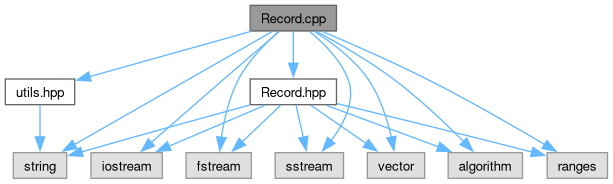
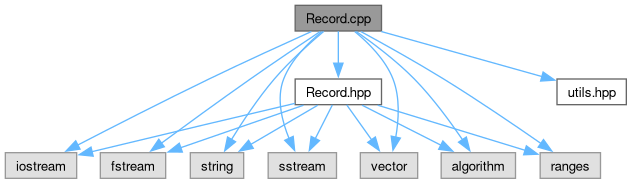
deploy: 14380d415c9c5c7abaf45a0c2f95ecaf4b24fa57

diff --git a/Record_8hpp_source.html b/Record_8hpp_source.html
@@ -29,7 +29,7 @@
  <tbody>
  <tr id="projectrow">
   <td id="projectalign">
-   <div id="projectname">CSV-Parser<span id="projectnumber">&#160;v0.0.4</span>
+   <div id="projectname">CSV-Parser<span id="projectnumber">&#160;v0.1.0</span>
    </div>
    <div id="projectbrief">Implementacja CSV-Parser</div>
   </td>
@@ -114,34 +114,35 @@ $(function(){initNavTree('Record_8hpp_source.html',''); initResizable(true); });
 <div class="line"><a id="l00010" name="l00010"></a><span class="lineno">   10</span><span class="preprocessor">#include &lt;ranges&gt;</span></div>
 <div class="line"><a id="l00011" name="l00011"></a><span class="lineno">   11</span> </div>
 <div class="line"><a id="l00012" name="l00012"></a><span class="lineno"><a class="line" href="Record_8hpp.html#aeb997e4ba1f284c007b9b402df0e0b38">   12</a></span><span class="preprocessor">#define FIELDS_IN_CSV 6</span></div>
-<div class="line"><a id="l00013" name="l00013"></a><span class="lineno">   13</span> </div>
-<div class="foldopen" id="foldopen00014" data-start="{" data-end="};">
-<div class="line"><a id="l00014" name="l00014"></a><span class="lineno"><a class="line" href="classRecord.html">   14</a></span><span class="keyword">class </span><a class="code hl_function" href="classRecord.html#ae8ee53ffec6ff4dac9911517d47e86a5">Record</a> {</div>
-<div class="line"><a id="l00015" name="l00015"></a><span class="lineno"><a class="line" href="classRecord.html#a0ab199529200222fbe5d06411e36084c">   15</a></span>    std::string <a class="code hl_variable" href="classRecord.html#a0ab199529200222fbe5d06411e36084c">Time</a>;</div>
-<div class="line"><a id="l00016" name="l00016"></a><span class="lineno"><a class="line" href="classRecord.html#aa6580edcfaf84ceefc03468870a324bc">   16</a></span>    <span class="keywordtype">float</span> <a class="code hl_variable" href="classRecord.html#aa6580edcfaf84ceefc03468870a324bc">AutoConsumption</a>;</div>
-<div class="line"><a id="l00017" name="l00017"></a><span class="lineno"><a class="line" href="classRecord.html#aea68c2e23e48f8e7316b9f3e932787be">   17</a></span>    <span class="keywordtype">float</span> <a class="code hl_variable" href="classRecord.html#aea68c2e23e48f8e7316b9f3e932787be">Export</a>;</div>
-<div class="line"><a id="l00018" name="l00018"></a><span class="lineno"><a class="line" href="classRecord.html#a6daba87ddf40bcc86c2852ab1aa0c6bc">   18</a></span>    <span class="keywordtype">float</span> <a class="code hl_variable" href="classRecord.html#a6daba87ddf40bcc86c2852ab1aa0c6bc">Import</a>;</div>
-<div class="line"><a id="l00019" name="l00019"></a><span class="lineno"><a class="line" href="classRecord.html#a62a67e2449c79bce4340276a1ac989f3">   19</a></span>    <span class="keywordtype">float</span> <a class="code hl_variable" href="classRecord.html#a62a67e2449c79bce4340276a1ac989f3">Consumption</a>;</div>
-<div class="line"><a id="l00020" name="l00020"></a><span class="lineno"><a class="line" href="classRecord.html#a3945cdb36df3ca909459894451db477b">   20</a></span>    <span class="keywordtype">float</span> <a class="code hl_variable" href="classRecord.html#a3945cdb36df3ca909459894451db477b">Production</a>;</div>
-<div class="line"><a id="l00021" name="l00021"></a><span class="lineno">   21</span> </div>
-<div class="line"><a id="l00022" name="l00022"></a><span class="lineno">   22</span>    <span class="keyword">public</span>:</div>
-<div class="line"><a id="l00023" name="l00023"></a><span class="lineno">   23</span>    <a class="code hl_function" href="classRecord.html#ae8ee53ffec6ff4dac9911517d47e86a5">Record</a>();</div>
-<div class="line"><a id="l00024" name="l00024"></a><span class="lineno">   24</span>    <span class="keyword">friend</span> std::ostream&amp; <a class="code hl_friend" href="classRecord.html#a80c4cb4b2179c66896a66052b26891f4">operator&lt;&lt;</a>(std::ostream&amp; os, <span class="keyword">const</span> <a class="code hl_function" href="classRecord.html#ae8ee53ffec6ff4dac9911517d47e86a5">Record</a>&amp; <a class="code hl_function" href="classRecord.html#ae8ee53ffec6ff4dac9911517d47e86a5">Record</a>);</div>
-<div class="line"><a id="l00025" name="l00025"></a><span class="lineno">   25</span>    <span class="keyword">friend</span> std::istream&amp; <a class="code hl_friend" href="classRecord.html#a092e129e09b8d3a4cfa1793a2fb6d486">operator&gt;&gt;</a>(std::istream&amp; is, <a class="code hl_function" href="classRecord.html#ae8ee53ffec6ff4dac9911517d47e86a5">Record</a>&amp; <a class="code hl_function" href="classRecord.html#ae8ee53ffec6ff4dac9911517d47e86a5">Record</a>);</div>
-<div class="line"><a id="l00026" name="l00026"></a><span class="lineno">   26</span>};</div>
+<div class="line"><a id="l00013" name="l00013"></a><span class="lineno">   13</span></div>
+<div class="line"><a id="l00030" name="l00030"></a><span class="lineno">   30</span> </div>
+<div class="foldopen" id="foldopen00031" data-start="{" data-end="};">
+<div class="line"><a id="l00031" name="l00031"></a><span class="lineno"><a class="line" href="classRecord.html">   31</a></span><span class="keyword">class </span><a class="code hl_function" href="classRecord.html#ae8ee53ffec6ff4dac9911517d47e86a5">Record</a> {</div>
+<div class="line"><a id="l00032" name="l00032"></a><span class="lineno"><a class="line" href="classRecord.html#a0ab199529200222fbe5d06411e36084c">   32</a></span>    std::string <a class="code hl_variable" href="classRecord.html#a0ab199529200222fbe5d06411e36084c">Time</a>;</div>
+<div class="line"><a id="l00033" name="l00033"></a><span class="lineno"><a class="line" href="classRecord.html#aa6580edcfaf84ceefc03468870a324bc">   33</a></span>    <span class="keywordtype">float</span> <a class="code hl_variable" href="classRecord.html#aa6580edcfaf84ceefc03468870a324bc">AutoConsumption</a>;</div>
+<div class="line"><a id="l00034" name="l00034"></a><span class="lineno"><a class="line" href="classRecord.html#aea68c2e23e48f8e7316b9f3e932787be">   34</a></span>    <span class="keywordtype">float</span> <a class="code hl_variable" href="classRecord.html#aea68c2e23e48f8e7316b9f3e932787be">Export</a>;</div>
+<div class="line"><a id="l00035" name="l00035"></a><span class="lineno"><a class="line" href="classRecord.html#a6daba87ddf40bcc86c2852ab1aa0c6bc">   35</a></span>    <span class="keywordtype">float</span> <a class="code hl_variable" href="classRecord.html#a6daba87ddf40bcc86c2852ab1aa0c6bc">Import</a>;</div>
+<div class="line"><a id="l00036" name="l00036"></a><span class="lineno"><a class="line" href="classRecord.html#a62a67e2449c79bce4340276a1ac989f3">   36</a></span>    <span class="keywordtype">float</span> <a class="code hl_variable" href="classRecord.html#a62a67e2449c79bce4340276a1ac989f3">Consumption</a>;</div>
+<div class="line"><a id="l00037" name="l00037"></a><span class="lineno"><a class="line" href="classRecord.html#a3945cdb36df3ca909459894451db477b">   37</a></span>    <span class="keywordtype">float</span> <a class="code hl_variable" href="classRecord.html#a3945cdb36df3ca909459894451db477b">Production</a>;</div>
+<div class="line"><a id="l00038" name="l00038"></a><span class="lineno">   38</span> </div>
+<div class="line"><a id="l00039" name="l00039"></a><span class="lineno">   39</span>    <span class="keyword">public</span>:</div>
+<div class="line"><a id="l00040" name="l00040"></a><span class="lineno">   40</span>    <a class="code hl_function" href="classRecord.html#ae8ee53ffec6ff4dac9911517d47e86a5">Record</a>();</div>
+<div class="line"><a id="l00041" name="l00041"></a><span class="lineno">   41</span>    <span class="keyword">friend</span> std::ostream&amp; <a class="code hl_friend" href="classRecord.html#a80c4cb4b2179c66896a66052b26891f4">operator&lt;&lt;</a>(std::ostream&amp; os, <span class="keyword">const</span> <a class="code hl_function" href="classRecord.html#ae8ee53ffec6ff4dac9911517d47e86a5">Record</a>&amp; <a class="code hl_function" href="classRecord.html#ae8ee53ffec6ff4dac9911517d47e86a5">Record</a>);</div>
+<div class="line"><a id="l00042" name="l00042"></a><span class="lineno">   42</span>    <span class="keyword">friend</span> std::istream&amp; <a class="code hl_friend" href="classRecord.html#a092e129e09b8d3a4cfa1793a2fb6d486">operator&gt;&gt;</a>(std::istream&amp; is, <a class="code hl_function" href="classRecord.html#ae8ee53ffec6ff4dac9911517d47e86a5">Record</a>&amp; <a class="code hl_function" href="classRecord.html#ae8ee53ffec6ff4dac9911517d47e86a5">Record</a>);</div>
+<div class="line"><a id="l00043" name="l00043"></a><span class="lineno">   43</span>};</div>
 </div>
-<div class="line"><a id="l00027" name="l00027"></a><span class="lineno">   27</span> </div>
-<div class="line"><a id="l00028" name="l00028"></a><span class="lineno">   28</span> </div>
-<div class="line"><a id="l00029" name="l00029"></a><span class="lineno">   29</span><span class="preprocessor">#endif </span><span class="comment">/* FFCD09C6_ACDA_4273_B86D_DEDC69507119 */</span><span class="preprocessor"></span></div>
+<div class="line"><a id="l00044" name="l00044"></a><span class="lineno">   44</span> </div>
+<div class="line"><a id="l00045" name="l00045"></a><span class="lineno">   45</span> </div>
+<div class="line"><a id="l00046" name="l00046"></a><span class="lineno">   46</span><span class="preprocessor">#endif </span><span class="comment">/* FFCD09C6_ACDA_4273_B86D_DEDC69507119 */</span><span class="preprocessor"></span></div>
 <div class="ttc" id="aclassRecord_html_a092e129e09b8d3a4cfa1793a2fb6d486"><div class="ttname"><a href="classRecord.html#a092e129e09b8d3a4cfa1793a2fb6d486">Record::operator&gt;&gt;</a></div><div class="ttdeci">friend std::istream &amp; operator&gt;&gt;(std::istream &amp;is, Record &amp;Record)</div><div class="ttdef"><b>Definicja</b> Record.cpp:21</div></div>
-<div class="ttc" id="aclassRecord_html_a0ab199529200222fbe5d06411e36084c"><div class="ttname"><a href="classRecord.html#a0ab199529200222fbe5d06411e36084c">Record::Time</a></div><div class="ttdeci">std::string Time</div><div class="ttdef"><b>Definicja</b> Record.hpp:15</div></div>
-<div class="ttc" id="aclassRecord_html_a3945cdb36df3ca909459894451db477b"><div class="ttname"><a href="classRecord.html#a3945cdb36df3ca909459894451db477b">Record::Production</a></div><div class="ttdeci">float Production</div><div class="ttdef"><b>Definicja</b> Record.hpp:20</div></div>
-<div class="ttc" id="aclassRecord_html_a62a67e2449c79bce4340276a1ac989f3"><div class="ttname"><a href="classRecord.html#a62a67e2449c79bce4340276a1ac989f3">Record::Consumption</a></div><div class="ttdeci">float Consumption</div><div class="ttdef"><b>Definicja</b> Record.hpp:19</div></div>
-<div class="ttc" id="aclassRecord_html_a6daba87ddf40bcc86c2852ab1aa0c6bc"><div class="ttname"><a href="classRecord.html#a6daba87ddf40bcc86c2852ab1aa0c6bc">Record::Import</a></div><div class="ttdeci">float Import</div><div class="ttdef"><b>Definicja</b> Record.hpp:18</div></div>
+<div class="ttc" id="aclassRecord_html_a0ab199529200222fbe5d06411e36084c"><div class="ttname"><a href="classRecord.html#a0ab199529200222fbe5d06411e36084c">Record::Time</a></div><div class="ttdeci">std::string Time</div><div class="ttdef"><b>Definicja</b> Record.hpp:32</div></div>
+<div class="ttc" id="aclassRecord_html_a3945cdb36df3ca909459894451db477b"><div class="ttname"><a href="classRecord.html#a3945cdb36df3ca909459894451db477b">Record::Production</a></div><div class="ttdeci">float Production</div><div class="ttdef"><b>Definicja</b> Record.hpp:37</div></div>
+<div class="ttc" id="aclassRecord_html_a62a67e2449c79bce4340276a1ac989f3"><div class="ttname"><a href="classRecord.html#a62a67e2449c79bce4340276a1ac989f3">Record::Consumption</a></div><div class="ttdeci">float Consumption</div><div class="ttdef"><b>Definicja</b> Record.hpp:36</div></div>
+<div class="ttc" id="aclassRecord_html_a6daba87ddf40bcc86c2852ab1aa0c6bc"><div class="ttname"><a href="classRecord.html#a6daba87ddf40bcc86c2852ab1aa0c6bc">Record::Import</a></div><div class="ttdeci">float Import</div><div class="ttdef"><b>Definicja</b> Record.hpp:35</div></div>
 <div class="ttc" id="aclassRecord_html_a80c4cb4b2179c66896a66052b26891f4"><div class="ttname"><a href="classRecord.html#a80c4cb4b2179c66896a66052b26891f4">Record::operator&lt;&lt;</a></div><div class="ttdeci">friend std::ostream &amp; operator&lt;&lt;(std::ostream &amp;os, const Record &amp;Record)</div><div class="ttdef"><b>Definicja</b> Record.cpp:76</div></div>
-<div class="ttc" id="aclassRecord_html_aa6580edcfaf84ceefc03468870a324bc"><div class="ttname"><a href="classRecord.html#aa6580edcfaf84ceefc03468870a324bc">Record::AutoConsumption</a></div><div class="ttdeci">float AutoConsumption</div><div class="ttdef"><b>Definicja</b> Record.hpp:16</div></div>
+<div class="ttc" id="aclassRecord_html_aa6580edcfaf84ceefc03468870a324bc"><div class="ttname"><a href="classRecord.html#aa6580edcfaf84ceefc03468870a324bc">Record::AutoConsumption</a></div><div class="ttdeci">float AutoConsumption</div><div class="ttdef"><b>Definicja</b> Record.hpp:33</div></div>
 <div class="ttc" id="aclassRecord_html_ae8ee53ffec6ff4dac9911517d47e86a5"><div class="ttname"><a href="classRecord.html#ae8ee53ffec6ff4dac9911517d47e86a5">Record::Record</a></div><div class="ttdeci">Record()</div><div class="ttdef"><b>Definicja</b> Record.cpp:11</div></div>
-<div class="ttc" id="aclassRecord_html_aea68c2e23e48f8e7316b9f3e932787be"><div class="ttname"><a href="classRecord.html#aea68c2e23e48f8e7316b9f3e932787be">Record::Export</a></div><div class="ttdeci">float Export</div><div class="ttdef"><b>Definicja</b> Record.hpp:17</div></div>
+<div class="ttc" id="aclassRecord_html_aea68c2e23e48f8e7316b9f3e932787be"><div class="ttname"><a href="classRecord.html#aea68c2e23e48f8e7316b9f3e932787be">Record::Export</a></div><div class="ttdeci">float Export</div><div class="ttdef"><b>Definicja</b> Record.hpp:34</div></div>
 </div><!-- fragment --></div><!-- contents -->
 </div><!-- doc-content -->
 <!-- start footer part -->

diff --git a/Record_8cpp.html b/Record_8cpp.html
@@ -29,7 +29,7 @@
  <tbody>
  <tr id="projectrow">
   <td id="projectalign">
-   <div id="projectname">CSV-Parser<span id="projectnumber">&#160;v0.0.4</span>
+   <div id="projectname">CSV-Parser<span id="projectnumber">&#160;v0.1.0</span>
    </div>
    <div id="projectbrief">Implementacja CSV-Parser</div>
   </td>
@@ -118,33 +118,32 @@ Wykres zależności załączania dla Record.cpp:</div>
 <div class="dyncontent">
 <div class="center"><img src="Record_8cpp__incl.png" border="0" usemap="#aRecord_8cpp" alt=""/></div>
 <map name="aRecord_8cpp" id="aRecord_8cpp">
-<area shape="rect" title=" " alt="" coords="250,5,336,31"/>
-<area shape="rect" title=" " alt="" coords="91,153,162,178"/>
-<area shape="poly" title=" " alt="" coords="281,33,226,81,153,145,149,141,222,77,278,29"/>
-<area shape="rect" title=" " alt="" coords="186,153,251,178"/>
-<area shape="poly" title=" " alt="" coords="280,34,260,54,241,80,230,109,224,138,219,137,225,108,236,78,256,51,277,30"/>
-<area shape="rect" title=" " alt="" coords="13,153,67,178"/>
-<area shape="poly" title=" " alt="" coords="273,34,76,147,73,142,271,29"/>
-<area shape="rect" title=" " alt="" coords="275,153,344,178"/>
-<area shape="poly" title=" " alt="" coords="312,30,333,50,350,78,353,95,350,112,333,142,329,139,345,111,348,95,346,80,329,54,308,33"/>
-<area shape="rect" title=" " alt="" coords="367,153,425,178"/>
-<area shape="poly" title=" " alt="" coords="316,29,344,50,370,77,385,107,394,136,389,138,380,109,366,81,341,54,313,34"/>
-<area shape="rect" title=" " alt="" coords="448,153,522,178"/>
-<area shape="poly" title=" " alt="" coords="318,29,355,50,395,77,433,109,466,140,462,144,430,113,392,81,352,55,316,34"/>
-<area shape="rect" title=" " alt="" coords="547,153,608,178"/>
-<area shape="poly" title=" " alt="" coords="323,29,428,77,546,142,543,147,425,81,321,34"/>
-<area shape="rect" href="utils_8hpp.html" title=" " alt="" coords="5,79,75,105"/>
-<area shape="poly" title=" " alt="" coords="251,34,90,79,89,74,250,29"/>
-<area shape="rect" href="Record_8hpp.html" title=" " alt="" coords="250,79,336,105"/>
-<area shape="poly" title=" " alt="" coords="296,31,296,63,291,63,291,31"/>
-<area shape="poly" title=" " alt="" coords="43,105,43,137,37,137,37,105"/>
-<area shape="poly" title=" " alt="" coords="266,108,170,149,168,144,264,103"/>
-<area shape="poly" title=" " alt="" coords="283,107,244,144,240,140,279,103"/>
-<area shape="poly" title=" " alt="" coords="250,108,82,154,81,149,249,102"/>
-<area shape="poly" title=" " alt="" coords="299,104,306,137,301,138,293,105"/>
-<area shape="poly" title=" " alt="" coords="312,103,368,141,365,146,309,107"/>
-<area shape="poly" title=" " alt="" coords="327,103,439,144,438,149,325,108"/>
-<area shape="poly" title=" " alt="" coords="338,101,533,149,531,155,336,106"/>
+<area shape="rect" title=" " alt="" coords="295,5,382,31"/>
+<area shape="rect" title=" " alt="" coords="5,153,77,178"/>
+<area shape="poly" title=" " alt="" coords="313,34,210,81,79,147,76,143,208,77,310,29"/>
+<area shape="rect" title=" " alt="" coords="100,153,166,178"/>
+<area shape="poly" title=" " alt="" coords="322,34,252,81,163,146,160,141,249,77,319,29"/>
+<area shape="rect" title=" " alt="" coords="190,153,244,178"/>
+<area shape="poly" title=" " alt="" coords="326,33,276,81,234,141,229,138,272,77,322,29"/>
+<area shape="rect" title=" " alt="" coords="268,153,336,178"/>
+<area shape="poly" title=" " alt="" coords="324,33,303,54,286,80,283,94,284,109,292,138,287,140,278,110,278,94,281,78,299,50,320,30"/>
+<area shape="rect" title=" " alt="" coords="360,153,418,178"/>
+<area shape="poly" title=" " alt="" coords="357,30,378,50,395,78,401,109,398,138,393,137,396,109,391,80,374,54,353,33"/>
+<area shape="rect" title=" " alt="" coords="441,153,516,178"/>
+<area shape="poly" title=" " alt="" coords="358,29,386,51,416,77,443,108,465,138,460,141,439,111,412,81,383,55,355,34"/>
+<area shape="rect" title=" " alt="" coords="540,153,600,178"/>
+<area shape="poly" title=" " alt="" coords="362,29,445,77,542,141,540,146,442,81,359,34"/>
+<area shape="rect" href="utils_8hpp.html" title=" " alt="" coords="557,79,626,105"/>
+<area shape="poly" title=" " alt="" coords="382,29,543,74,542,79,381,34"/>
+<area shape="rect" href="Record_8hpp.html" title=" " alt="" coords="295,79,382,105"/>
+<area shape="poly" title=" " alt="" coords="341,31,341,63,336,63,336,31"/>
+<area shape="poly" title=" " alt="" coords="295,106,92,154,91,149,294,101"/>
+<area shape="poly" title=" " alt="" coords="304,108,181,150,180,145,303,103"/>
+<area shape="poly" title=" " alt="" coords="319,108,252,147,249,142,316,103"/>
+<area shape="poly" title=" " alt="" coords="335,106,318,140,313,138,330,104"/>
+<area shape="poly" title=" " alt="" coords="349,103,374,138,370,141,345,106"/>
+<area shape="poly" title=" " alt="" coords="363,103,442,143,440,148,361,108"/>
+<area shape="poly" title=" " alt="" coords="378,103,526,148,525,153,377,108"/>
 </map>
 </div>
 </div><table class="memberdecls">

diff --git a/utils_8hpp.html b/utils_8hpp.html
@@ -29,7 +29,7 @@
  <tbody>
  <tr id="projectrow">
   <td id="projectalign">
-   <div id="projectname">CSV-Parser<span id="projectnumber">&#160;v0.0.4</span>
+   <div id="projectname">CSV-Parser<span id="projectnumber">&#160;v0.1.0</span>
    </div>
    <div id="projectbrief">Implementacja CSV-Parser</div>
   </td>
@@ -99,23 +99,10 @@ $(function(){initNavTree('utils_8hpp.html',''); initResizable(true); });
 </div>
 
 <div class="header">
-  <div class="summary">
-<a href="#func-members">Funkcje</a>  </div>
   <div class="headertitle"><div class="title">Dokumentacja pliku utils.hpp</div></div>
 </div><!--header-->
 <div class="contents">
-<div class="textblock"><code>#include &lt;string&gt;</code><br />
-</div><div class="textblock"><div class="dynheader">
-Wykres zależności załączania dla utils.hpp:</div>
-<div class="dyncontent">
-<div class="center"><img src="utils_8hpp__incl.png" border="0" usemap="#autils_8hpp" alt=""/></div>
-<map name="autils_8hpp" id="autils_8hpp">
-<area shape="rect" title=" " alt="" coords="5,5,75,31"/>
-<area shape="rect" title=" " alt="" coords="13,79,67,105"/>
-<area shape="poly" title=" " alt="" coords="43,31,43,63,37,63,37,31"/>
-</map>
-</div>
-</div><div class="textblock"><div class="dynheader">
+<div class="textblock"><div class="dynheader">
 Ten wykres pokazuje, które pliki bezpośrednio lub pośrednio załączają ten plik:</div>
 <div class="dyncontent">
 <div class="center"><img src="utils_8hpp__dep__incl.png" border="0" usemap="#autils_8hppdep" alt=""/></div>
@@ -129,30 +116,6 @@ Ten wykres pokazuje, które pliki bezpośrednio lub pośrednio załączają ten 
 </div>
 </div>
 <p><a href="utils_8hpp_source.html">Idź do kodu źródłowego tego pliku.</a></p>
-<table class="memberdecls">
-<tr class="heading"><td colspan="2"><h2 class="groupheader"><a id="func-members" name="func-members"></a>
-Funkcje</h2></td></tr>
-<tr class="memitem:a76e5e79ce66375ea90e5aad0a84e7c96" id="r_a76e5e79ce66375ea90e5aad0a84e7c96"><td class="memItemLeft" align="right" valign="top">std::string&#160;</td><td class="memItemRight" valign="bottom"><a class="el" href="#a76e5e79ce66375ea90e5aad0a84e7c96">trimAllQuotationMarks</a> (const std::string &amp;str)</td></tr>
-<tr class="separator:a76e5e79ce66375ea90e5aad0a84e7c96"><td class="memSeparator" colspan="2">&#160;</td></tr>
-</table>
-<h2 class="groupheader">Dokumentacja funkcji</h2>
-<a id="a76e5e79ce66375ea90e5aad0a84e7c96" name="a76e5e79ce66375ea90e5aad0a84e7c96"></a>
-<h2 class="memtitle"><span class="permalink"><a href="#a76e5e79ce66375ea90e5aad0a84e7c96">&#9670;&#160;</a></span>trimAllQuotationMarks()</h2>
-
-<div class="memitem">
-<div class="memproto">
-      <table class="memname">
-        <tr>
-          <td class="memname">std::string trimAllQuotationMarks </td>
-          <td>(</td>
-          <td class="paramtype">const std::string &amp;</td>          <td class="paramname"><span class="paramname"><em>str</em></span></td><td>)</td>
-          <td></td>
-        </tr>
-      </table>
-</div><div class="memdoc">
-
-</div>
-</div>
 </div><!-- contents -->
 </div><!-- doc-content -->
 <!-- start footer part -->

diff --git a/utils_8hpp_source.html b/utils_8hpp_source.html
@@ -29,7 +29,7 @@
  <tbody>
  <tr id="projectrow">
   <td id="projectalign">
-   <div id="projectname">CSV-Parser<span id="projectnumber">&#160;v0.0.4</span>
+   <div id="projectname">CSV-Parser<span id="projectnumber">&#160;v0.1.0</span>
    </div>
    <div id="projectbrief">Implementacja CSV-Parser</div>
   </td>
@@ -102,14 +102,7 @@ $(function(){initNavTree('utils_8hpp_source.html',''); initResizable(true); });
   <div class="headertitle"><div class="title">utils.hpp</div></div>
 </div><!--header-->
 <div class="contents">
-<a href="utils_8hpp.html">Idź do dokumentacji tego pliku.</a><div class="fragment"><div class="line"><a id="l00001" name="l00001"></a><span class="lineno">    1</span><span class="preprocessor">#ifndef F27D7DC8_74C1_4775_AB6B_1BE0B7878DF4</span></div>
-<div class="line"><a id="l00002" name="l00002"></a><span class="lineno">    2</span><span class="preprocessor">#define F27D7DC8_74C1_4775_AB6B_1BE0B7878DF4</span></div>
-<div class="line"><a id="l00003" name="l00003"></a><span class="lineno">    3</span> </div>
-<div class="line"><a id="l00004" name="l00004"></a><span class="lineno">    4</span><span class="preprocessor">#include &lt;string&gt;</span></div>
-<div class="line"><a id="l00005" name="l00005"></a><span class="lineno">    5</span>std::string <a class="code hl_function" href="utils_8hpp.html#a76e5e79ce66375ea90e5aad0a84e7c96">trimAllQuotationMarks</a>(<span class="keyword">const</span> std::string&amp; str);</div>
-<div class="line"><a id="l00006" name="l00006"></a><span class="lineno">    6</span> </div>
-<div class="line"><a id="l00007" name="l00007"></a><span class="lineno">    7</span><span class="preprocessor">#endif </span><span class="comment">/* F27D7DC8_74C1_4775_AB6B_1BE0B7878DF4 */</span><span class="preprocessor"></span></div>
-<div class="ttc" id="autils_8hpp_html_a76e5e79ce66375ea90e5aad0a84e7c96"><div class="ttname"><a href="utils_8hpp.html#a76e5e79ce66375ea90e5aad0a84e7c96">trimAllQuotationMarks</a></div><div class="ttdeci">std::string trimAllQuotationMarks(const std::string &amp;str)</div><div class="ttdef"><b>Definicja</b> utils.cpp:8</div></div>
+<a href="utils_8hpp.html">Idź do dokumentacji tego pliku.</a><div class="fragment"><div class="line"><a id="l00001" name="l00001"></a><span class="lineno">    1</span> </div>
 </div><!-- fragment --></div><!-- contents -->
 </div><!-- doc-content -->
 <!-- start footer part -->

diff --git a/utils_8cpp.html b/utils_8cpp.html
@@ -29,7 +29,7 @@
  <tbody>
  <tr id="projectrow">
   <td id="projectalign">
-   <div id="projectname">CSV-Parser<span id="projectnumber">&#160;v0.0.4</span>
+   <div id="projectname">CSV-Parser<span id="projectnumber">&#160;v0.1.0</span>
    </div>
    <div id="projectbrief">Implementacja CSV-Parser</div>
   </td>
@@ -113,16 +113,15 @@ Wykres zależności załączania dla utils.cpp:</div>
 <div class="dyncontent">
 <div class="center"><img src="utils_8cpp__incl.png" border="0" usemap="#autils_8cpp" alt=""/></div>
 <map name="autils_8cpp" id="autils_8cpp">
-<area shape="rect" title=" " alt="" coords="118,5,188,31"/>
+<area shape="rect" title=" " alt="" coords="138,5,208,31"/>
 <area shape="rect" href="utils_8hpp.html" title=" " alt="" coords="5,79,82,105"/>
-<area shape="poly" title=" " alt="" coords="136,34,76,73,73,68,133,29"/>
-<area shape="rect" title=" " alt="" coords="54,153,108,178"/>
-<area shape="poly" title=" " alt="" coords="149,33,96,140,91,137,145,30"/>
-<area shape="rect" title=" " alt="" coords="157,79,218,105"/>
-<area shape="poly" title=" " alt="" coords="161,30,177,64,173,66,156,32"/>
-<area shape="rect" title=" " alt="" coords="242,79,317,105"/>
-<area shape="poly" title=" " alt="" coords="176,29,246,69,244,73,173,34"/>
-<area shape="poly" title=" " alt="" coords="52,104,70,138,65,140,47,106"/>
+<area shape="poly" title=" " alt="" coords="152,34,80,73,78,69,150,29"/>
+<area shape="rect" title=" " alt="" coords="106,79,160,105"/>
+<area shape="poly" title=" " alt="" coords="169,33,149,67,145,64,164,30"/>
+<area shape="rect" title=" " alt="" coords="184,79,244,105"/>
+<area shape="poly" title=" " alt="" coords="182,30,202,64,197,67,177,33"/>
+<area shape="rect" title=" " alt="" coords="269,79,343,105"/>
+<area shape="poly" title=" " alt="" coords="197,29,271,69,269,74,194,34"/>
 </map>
 </div>
 </div><table class="memberdecls">

diff --git a/classRecord.html b/classRecord.html
@@ -29,7 +29,7 @@
  <tbody>
  <tr id="projectrow">
   <td id="projectalign">
-   <div id="projectname">CSV-Parser<span id="projectnumber">&#160;v0.0.4</span>
+   <div id="projectname">CSV-Parser<span id="projectnumber">&#160;v0.1.0</span>
    </div>
    <div id="projectbrief">Implementacja CSV-Parser</div>
   </td>
@@ -137,7 +137,11 @@ Przyjaciele</h2></td></tr>
 <tr class="memitem:a092e129e09b8d3a4cfa1793a2fb6d486" id="r_a092e129e09b8d3a4cfa1793a2fb6d486"><td class="memItemLeft" align="right" valign="top">std::istream &amp;&#160;</td><td class="memItemRight" valign="bottom"><a class="el" href="#a092e129e09b8d3a4cfa1793a2fb6d486">operator&gt;&gt;</a> (std::istream &amp;is, <a class="el" href="classRecord.html">Record</a> &amp;<a class="el" href="classRecord.html">Record</a>)</td></tr>
 <tr class="separator:a092e129e09b8d3a4cfa1793a2fb6d486"><td class="memSeparator" colspan="2">&#160;</td></tr>
 </table>
-<h2 class="groupheader">Dokumentacja konstruktora i destruktora</h2>
+<a name="details" id="details"></a><h2 class="groupheader">Opis szczegółowy</h2>
+<div class="textblock"><div class="plantumlgraph">
+<img src="inline_umlgraph_3.png" />
+</div>
+ </div><h2 class="groupheader">Dokumentacja konstruktora i destruktora</h2>
 <a id="ae8ee53ffec6ff4dac9911517d47e86a5" name="ae8ee53ffec6ff4dac9911517d47e86a5"></a>
 <h2 class="memtitle"><span class="permalink"><a href="#ae8ee53ffec6ff4dac9911517d47e86a5">&#9670;&#160;</a></span>Record()</h2>
 

diff --git a/globals_func.html b/globals_func.html
@@ -29,7 +29,7 @@
  <tbody>
  <tr id="projectrow">
   <td id="projectalign">
-   <div id="projectname">CSV-Parser<span id="projectnumber">&#160;v0.0.4</span>
+   <div id="projectname">CSV-Parser<span id="projectnumber">&#160;v0.1.0</span>
    </div>
    <div id="projectbrief">Implementacja CSV-Parser</div>
   </td>
@@ -103,7 +103,7 @@ $(function(){initNavTree('globals_func.html',''); initResizable(true); });
 <li>main()&#160;:&#160;<a class="el" href="main_8cpp.html#ae66f6b31b5ad750f1fe042a706a4e3d4">main.cpp</a></li>
 <li>operator&lt;&lt;()&#160;:&#160;<a class="el" href="Record_8cpp.html#a80c4cb4b2179c66896a66052b26891f4">Record.cpp</a></li>
 <li>operator&gt;&gt;()&#160;:&#160;<a class="el" href="Record_8cpp.html#a092e129e09b8d3a4cfa1793a2fb6d486">Record.cpp</a></li>
-<li>trimAllQuotationMarks()&#160;:&#160;<a class="el" href="utils_8cpp.html#a76e5e79ce66375ea90e5aad0a84e7c96">utils.cpp</a>, <a class="el" href="utils_8hpp.html#a76e5e79ce66375ea90e5aad0a84e7c96">utils.hpp</a></li>
+<li>trimAllQuotationMarks()&#160;:&#160;<a class="el" href="utils_8cpp.html#a76e5e79ce66375ea90e5aad0a84e7c96">utils.cpp</a></li>
 </ul>
 </div><!-- contents -->
 </div><!-- doc-content -->

diff --git a/globals.html b/globals.html
@@ -29,7 +29,7 @@
  <tbody>
  <tr id="projectrow">
   <td id="projectalign">
-   <div id="projectname">CSV-Parser<span id="projectnumber">&#160;v0.0.4</span>
+   <div id="projectname">CSV-Parser<span id="projectnumber">&#160;v0.1.0</span>
    </div>
    <div id="projectbrief">Implementacja CSV-Parser</div>
   </td>
@@ -104,7 +104,7 @@ $(function(){initNavTree('globals.html',''); initResizable(true); });
 <li>main()&#160;:&#160;<a class="el" href="main_8cpp.html#ae66f6b31b5ad750f1fe042a706a4e3d4">main.cpp</a></li>
 <li>operator&lt;&lt;()&#160;:&#160;<a class="el" href="Record_8cpp.html#a80c4cb4b2179c66896a66052b26891f4">Record.cpp</a></li>
 <li>operator&gt;&gt;()&#160;:&#160;<a class="el" href="Record_8cpp.html#a092e129e09b8d3a4cfa1793a2fb6d486">Record.cpp</a></li>
-<li>trimAllQuotationMarks()&#160;:&#160;<a class="el" href="utils_8cpp.html#a76e5e79ce66375ea90e5aad0a84e7c96">utils.cpp</a>, <a class="el" href="utils_8hpp.html#a76e5e79ce66375ea90e5aad0a84e7c96">utils.hpp</a></li>
+<li>trimAllQuotationMarks()&#160;:&#160;<a class="el" href="utils_8cpp.html#a76e5e79ce66375ea90e5aad0a84e7c96">utils.cpp</a></li>
 </ul>
 </div><!-- contents -->
 </div><!-- doc-content -->

diff --git a/search/all_9.js b/search/all_9.js
@@ -1,5 +1,5 @@
 var searchData=
 [
   ['time_0',['Time',['../classRecord.html#a0ab199529200222fbe5d06411e36084c',1,'Record']]],
-  ['trimallquotationmarks_1',['trimAllQuotationMarks',['../utils_8cpp.html#a76e5e79ce66375ea90e5aad0a84e7c96',1,'trimAllQuotationMarks(const std::string &amp;str):&#160;utils.cpp'],['../utils_8hpp.html#a76e5e79ce66375ea90e5aad0a84e7c96',1,'trimAllQuotationMarks(const std::string &amp;str):&#160;utils.cpp']]]
+  ['trimallquotationmarks_1',['trimAllQuotationMarks',['../utils_8cpp.html#a76e5e79ce66375ea90e5aad0a84e7c96',1,'utils.cpp']]]
 ];

diff --git a/search/functions_5.js b/search/functions_5.js
@@ -1,4 +1,4 @@
 var searchData=
 [
-  ['trimallquotationmarks_0',['trimAllQuotationMarks',['../utils_8cpp.html#a76e5e79ce66375ea90e5aad0a84e7c96',1,'trimAllQuotationMarks(const std::string &amp;str):&#160;utils.cpp'],['../utils_8hpp.html#a76e5e79ce66375ea90e5aad0a84e7c96',1,'trimAllQuotationMarks(const std::string &amp;str):&#160;utils.cpp']]]
+  ['trimallquotationmarks_0',['trimAllQuotationMarks',['../utils_8cpp.html#a76e5e79ce66375ea90e5aad0a84e7c96',1,'utils.cpp']]]
 ];

diff --git a/CSV-Parser_8cpp.html b/CSV-Parser_8cpp.html
@@ -29,7 +29,7 @@
  <tbody>
  <tr id="projectrow">
   <td id="projectalign">
-   <div id="projectname">CSV-Parser<span id="projectnumber">&#160;v0.0.4</span>
+   <div id="projectname">CSV-Parser<span id="projectnumber">&#160;v0.1.0</span>
    </div>
    <div id="projectbrief">Implementacja CSV-Parser</div>
   </td>

diff --git a/CSV-Parser_8hpp.html b/CSV-Parser_8hpp.html
@@ -29,7 +29,7 @@
  <tbody>
  <tr id="projectrow">
   <td id="projectalign">
-   <div id="projectname">CSV-Parser<span id="projectnumber">&#160;v0.0.4</span>
+   <div id="projectname">CSV-Parser<span id="projectnumber">&#160;v0.1.0</span>
    </div>
    <div id="projectbrief">Implementacja CSV-Parser</div>
   </td>
